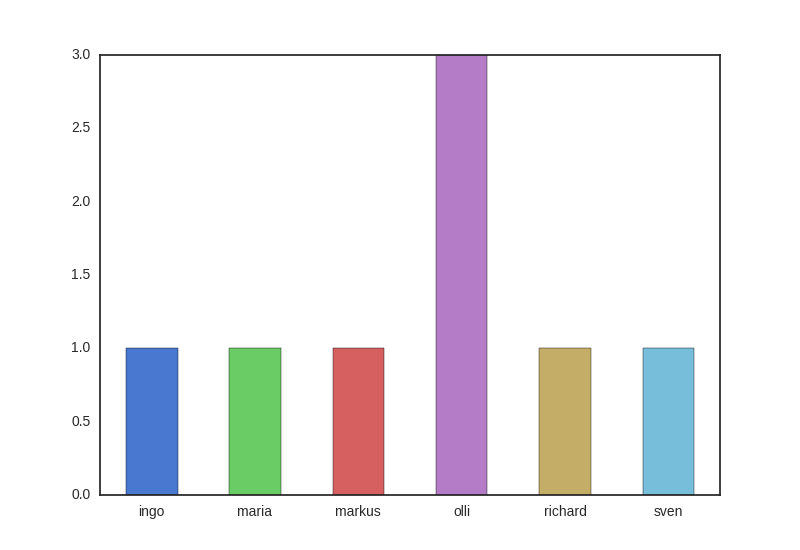
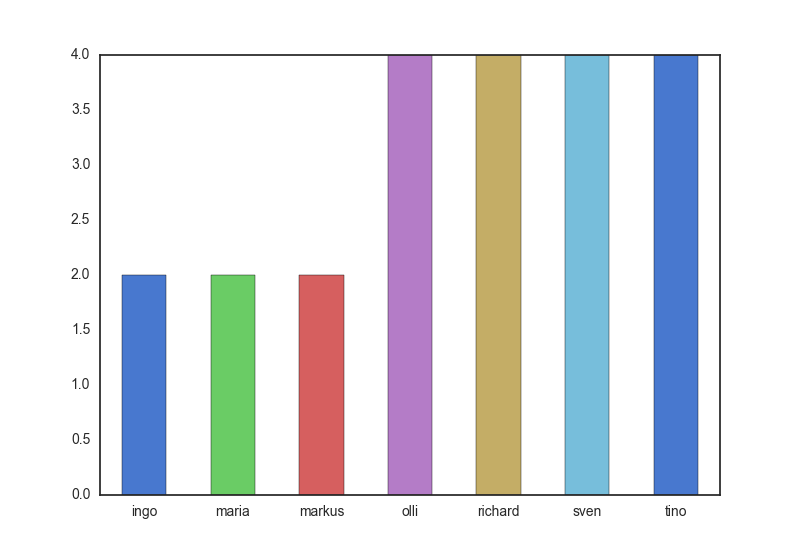
update

diff --git a/tippspiel.py b/tippspiel.py
@@ -8,6 +8,7 @@ import matplotlib.pyplot as plt
 import matplotlib.dates as dates
 import seaborn as sns
 from itertools import repeat
+from operator import sub
 
 DATA_FILE = "saure_gurke.pkl"
 ROUND_MULTIPLICATOR = {36: 1, 16: 2, 8: 3, 4: 4, 2: 5}
@@ -47,9 +48,8 @@ def valid_tipp(str, valid=frozenset(string.digits + " " + "-")):
 
 
 def parse(tipp):
-
     if tipp and valid_tipp(tipp):
-        return eval(tipp)
+        return [int(x) for x in tipp.split('-')]
     else:
         return None
 
@@ -68,14 +68,13 @@ def get_all_tipps(round_number):
         yield basename(fname), load_tipps(fname)
 
 def score(tipp, result):
-
     if result is None or tipp is None:
         return 0    # match not played or no valid tipp 
 
-    if tipp == result:
+    elif tipp == result:
         return 3    # exact result
 
-    elif result*tipp > 0 or (tipp == 0 and result == 0):  # correct winner(>0), oder correct draw(=0)
+    elif sub(*result)*sub(*tipp) > 0 or (sub(*tipp) == 0 and sub(*result) == 0):  # correct winner(>0), oder correct draw(=0)
         return 1
 
     else:
@@ -90,7 +89,7 @@ def get_standing(round_number):
             for player, tipps in get_all_tipps(round_number)}
 
 def get_all_rounds():
-    for rn in [36, 16, 8, 4, 2]:
+    for rn in ROUND_MULTIPLICATOR.keys():
         if os.path.isfile("ro{}/results.txt".format(rn)):
             yield get_standing(rn)
 
@@ -116,7 +115,6 @@ def update_data():
         df = pd.read_pickle(DATA_FILE)
     else:
         df = pd.DataFrame()
-
     df = df.append(series)
 
     ax = df.plot(sort_columns=True, rot=0, color=colors, marker='o')
@@ -126,9 +124,6 @@ def update_data():
     fig.savefig("standings_vs_time.png")
 
     df.to_pickle(DATA_FILE)
-    print(df)
-
-
 
 
 if __name__ == "__main__":

diff --git a/test.py b/test.py
@@ -1,0 +1,13 @@
+from tippspiel import score
+
+real1 = 3, 0
+real2 = 0, 3
+
+def test_score():
+	assert score((1, 0), real1) == 1
+	assert score((3, 0), real1) == 3
+	assert score((0, 3), real1) == 0
+	assert score((1, 0), real2) == 0
+	assert score((0, 1), real2) == 1
+	assert score((1, 1), real2) == 0
+	assert score((1, 1), (2, 2)) == 1
